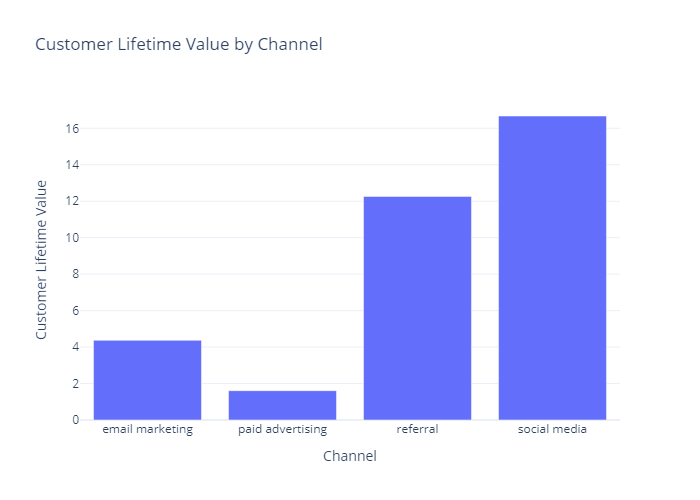
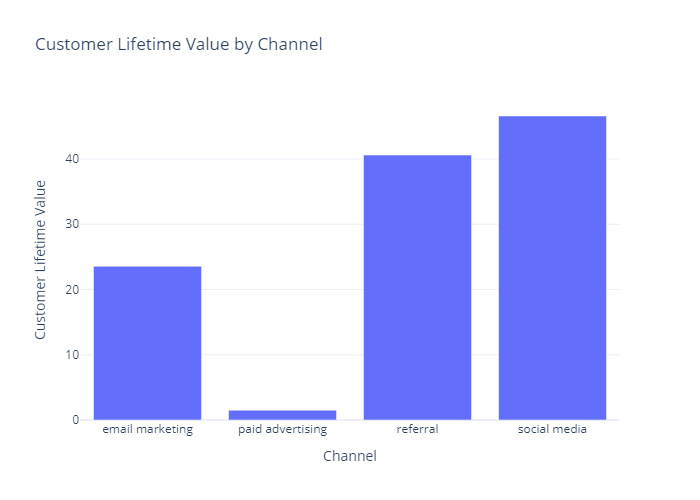
CLTV distribution analysis

diff --git a/src/main.py b/src/main.py
@@ -127,7 +127,7 @@ fig.write_image("../output/roi_by_channel.png")
 
 #Customer Lifetime Value by Channel
 
-data['cltv'] = (data['revenue'] - data['cost']) * (data['conversion_rate'] / data['revenue']) * 100
+data['cltv'] = (data['revenue'] - data['cost']) * (data['conversion_rate'] / data['cost'])
 
 cltv_by_channel = data.groupby('channel')['cltv'].mean().reset_index()
 
@@ -143,7 +143,31 @@ fig.write_image("../output/cltv_by_channel.png")
 
 #COMMENT: Customer lifetime value by channel:
 # CLTV is a ratio that considers how effectively costs are turned into revenue over time.
-# The CLTV indicates that for every dollar spent, email marketing generates approximately $4.37 in customer lifetime value which tells us that email marketing is a cost-effective channel with a good balance of revenue generation and conversion rate.
-# For every dollar spent, paid advertising generates approximately $1.61 in customer lifetime value which tells us paid advertising is less efficient in converting costs into long-term value. There is a need for optimization in this channel.
-# Referral marketing generates approximately $12.26 in customer lifetime value for every dollar spent which reflects the strong performance of referrals in terms of converting costs into substantial long-term value.
-# Social media generates approximately $16.68 in customer lifetime value for every dollar spent which is the highest CLTV among all channels. This tell us that social media is extremely efficient in converting marketing spend into long-term customer value.
+# The CLTV indicates that for every dollar spent, email marketing generates approximately $23.56 in customer lifetime value which tells us that email marketing is a cost-effective channel with a good balance of revenue generation and conversion rate.
+# For every dollar spent, paid advertising generates approximately $1.50 in customer lifetime value which tells us paid advertising is less efficient in converting costs into long-term value. There is a need for optimization in this channel.
+# Referral marketing generates approximately $40.60 in customer lifetime value for every dollar spent which reflects the strong performance of referrals in terms of converting costs into substantial long-term value.
+# Social media generates approximately $46.58 in customer lifetime value for every dollar spent which is the highest CLTV among all channels. This tell us that social media is extremely efficient in converting marketing spend into long-term customer value.
+
+#CLTV distribution
+
+subset = data.loc[data['channel'].isin(['social media', 'referral'])]
+
+print(subset)
+
+fig = px.box(subset,
+             x = "channel",
+             y = "cltv",
+             title = "CLTV Distribution by Channel",
+             labels = {"channel": "Channel", "cltv": "CLTV"})
+
+fig.update_xaxes(title='Channel')
+fig.update_yaxes(title='CLTV')
+fig.update_layout(legend_title='Channel')
+
+fig.show()
+
+fig.write_image("../output/cltv_distribution_analysis.png")
+
+#COMMENT: CLTV distribution for the higher CLTV generating channels:
+# The box plot analysis reveals that while both referral and social media channels are effective in generating high CLTV, social media has the potential to generate higher extreme values of CLTV.
+# This variability might stem from the diverse nature of social media campaigns and audiences, leading to a mix of highly valuable and moderately valuable customers.
